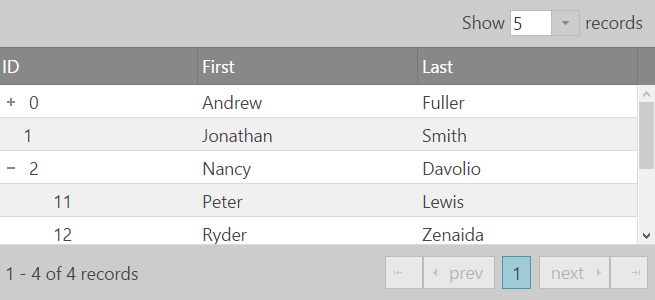
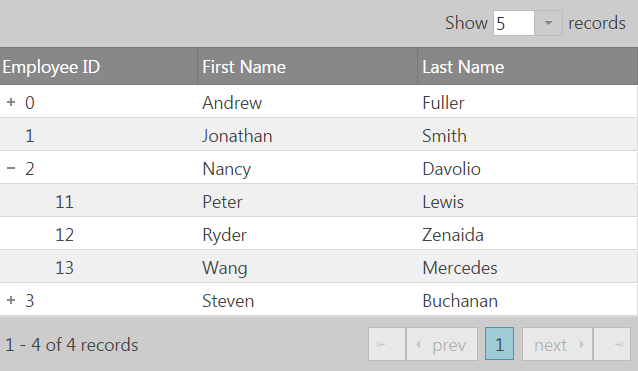
Minor changes to the TreeGridPaging topic
- Changing the default paging mode description
- Adding spaces in code snippets for context row functionality
- changing one of the screenshots so all records are visible

diff --git a/topics/02_Controls/igTreeGrid/01_Features/04_igTreeGrid-Paging.md b/topics/02_Controls/igTreeGrid/01_Features/04_igTreeGrid-Paging.md
@@ -28,9 +28,9 @@ Due to the hierarchical representation of the data in the igTreeGrid there are t
 
 ## <a id="paging-modes"></a> Paging Modes
 
-Paging has additional [`mode`](%%jQueryApiUrl%%/ui.igtreegridpaging#options:mode) options which by default operate on root level records. The visible records rendered per page in the grid will vary considerably depending on the  expansion state of root records, number of children and hierarchy depth. Meanwhile, page numbers will remain consistent.
+Paging has additional [`mode`](%%jQueryApiUrl%%/ui.igtreegridpaging#options:mode) option which by default is set to operate only on root level records. In the default mode changing the visible rows by expanding or collapsing rows will not affect the page count.
 
-In the following examples `flatDS` in an array with only **4 root-level nodes**:
+In the following examples `flatDS` in an array with only **4 root-level rows**:
 
 ```js
 $("#treegrid").igTreeGrid({
@@ -105,10 +105,10 @@ Both of the following examples are valid ways to modify the context row's conten
 
 Via returning a custom string:
 ```js
-renderContextRowFunc: function(dataRow, $textArea, parents, mode){
-        var contextRowText= "<div>";
-        $(parents).each(function(index){
-        contextRowText +="<div> Parent "+ index +" :"+ this.row["firstName"] + " " + this.row["lastName"] +"</div>";
+renderContextRowFunc: function(dataRow, $textArea, parents, mode) {
+        var contextRowText = "<div>";
+        $(parents).each(function(index) {
+			contextRowText += "<div> Parent " + index + " :" + this.row["firstName"] + " " + this.row["lastName"] + "</div>";
         });
         contextRowText += "</div>";
         return contextRowText;
@@ -116,14 +116,14 @@ renderContextRowFunc: function(dataRow, $textArea, parents, mode){
 ```
 Via directly modifying the textArea content:
 ```js
-renderContextRowFunc: function(dataRow, $textArea, parents, mode){
-        var contextRowText= "<div>";
-        $(parents).each(function(index){
-        contextRowText +="<div> Parent "+ index +" :"+ this.row["firstName"] + " " + this.row["lastName"] +"</div>";
+renderContextRowFunc: function(dataRow, $textArea, parents, mode) {
+        var contextRowText = "<div>";
+        $(parents).each( function(index) {
+			contextRowText += "<div> Parent "+ index + " :" + this.row["firstName"] + " " + this.row["lastName"] + "</div>";
         });
         contextRowText += "</div>";				
 		$textArea.html(contextRowText);
-					} 
+} 
  ```
 And lead to the same result.
 
